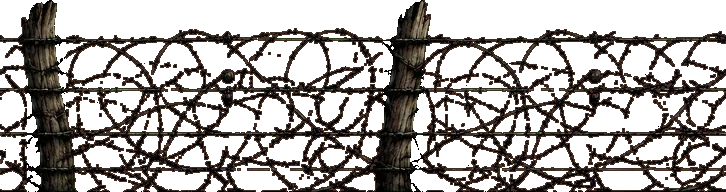
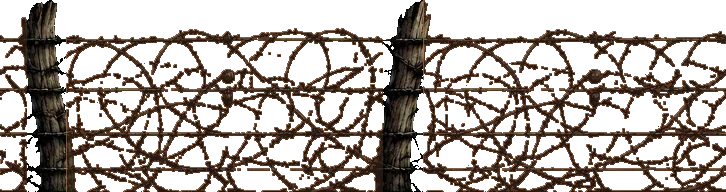
Gelände: Draht mit rostigem Glanz, von weit erkennbar

diff --git a/entwurf/probe/gelaende_bau.js b/entwurf/probe/gelaende_bau.js
@@ -306,7 +306,7 @@ async function bauen(cfg) {
       for (let k = 0; k < n; k++) {
         const ang = (q(k * 7 + 2) - 0.5) * 1.1, L = R * (0.32 + q(k * 7 + 3) * 0.3), cx = hx + (q(k * 7 + 4) - 0.5) * R * 0.9, cy = hy + (n === 1 ? (q(k * 7 + 5) - 0.5) * 0.5 : (k ? 0.3 : -0.32) + (q(k * 7 + 5) - 0.5) * 0.2) * R;
         wall(IM.draht, [cx - Math.cos(ang) * L, cy - Math.sin(ang) * L], [cx + Math.cos(ang) * L, cy + Math.sin(ang) * L], (0.5 + q(k * 7 + 6) * 0.15) * SH,
-          { u0: q(k * 7 + 8) * 5, shade: 0.3, shadeW: 0.12, skip: aufWeg });
+          { u0: q(k * 7 + 8) * 5, shade: 0.3, shadeW: 0.12, skip: aufWeg, filter: hS => hS < 45 * U ? 'brightness(1.4) contrast(1.1)' : '' });   // von weit etwas heller, damit man ihn erkennt
       }
       for (let k = 0; k < 1 + Math.floor(q(30) * 2.2); k++) {   // einzelne schiefe Pfähle, teils ohne Draht
         const x = hx + (q(k * 5 + 31) - 0.5) * R * 1.2, y = hy + (q(k * 5 + 32) - 0.5) * R * 1.1;

diff --git a/tools/gelaende_cut.py b/tools/gelaende_cut.py
@@ -199,6 +199,11 @@ def pfaehle_ausduennen(name, jede=2):
     q[neu, 3] = np.maximum(q[neu, 3], 220); q[neu, :3] = [70, 46, 32]
     # kein Schleier: halbdurchsichtige Reste zwischen den Drähten ganz weg, Draht und Pfähle voll deckend
     q[..., 3] = np.where(q[..., 3] < 140, 0, 255)
+    # rostiger Glanz: Drahtpixel mit freier Oberseite (Licht von oben links) bekommen eine helle Rostkante, alle Drähte etwas rostiger
+    d = q[..., 3] > 0; d[:, pf] = False
+    oben = d & ~np.roll(d, 1, axis=0) | d & ~np.roll(np.roll(d, 1, axis=0), 1, axis=1)
+    q[d, :3] = q[d, :3] * 0.7 + np.array([118, 74, 46]) * 0.3
+    q[oben, :3] = q[oben, :3] * 0.45 + np.array([190, 124, 76]) * 0.55
     q = np.clip(q, 0, 255).astype(np.uint8)
     print(f'  {len(grp)} Pfähle, {sum(1 for k in range(len(grp)) if k % jede)} entfernt → Breite {q.shape[1]} px')
     out = Image.fromarray(q, 'RGBA'); out.save(OUT / f'{name}.png'); out.save(PROBE / f'g_{name}.webp', quality=88, method=6)

diff --git a/STYLE.md b/STYLE.md
@@ -196,7 +196,7 @@ Für alle Bilder: reiner Magenta-Hintergrund (#FF00FF), PNG, Tuschkontur und Far
   - Gräben werden aus den Grabenfeldern zu Zügen verbunden; Züge am Kartenrand laufen bis zur Kante weiter (ohne Erdwall).
   - **Gräben im Zickzack** (Schulterwehren, seit 2026-11-16, Schalter `zickzack`): Der Zug wird alle 0,87 R neu gesetzt und abwechselnd um ±0,3 R seitlich versetzt. Das ist nur Darstellung innerhalb der Grabenfelder; welche Felder Graben sind, bestimmen weiter die Kartendaten (Regeln unverändert).
   - **Brustwehr zur Feindseite:** Bei Stücken, die in die Tiefe laufen, steht auf der Feindseite zusätzlich eine aufrechte Sandsack-Brustwehr (Kante vorn, 0,4 SH), 0,24 R weiter außen. Feindseite: Konkordat nach Osten, Aschenwacht nach Westen; Besitzer nach Aufstellungszone.
-  - **Draht:** gemalter Spiralstreifen (`draht`, jeder zweite Pfahl herausgeschnitten, Drähte um 1 px verdickt, voll deckend, ohne halbdurchsichtige Fläche). Je Drahtfeld 1–2 kurze Stücke (0,6–1,2 R), schräg (bis ±30°) und versetzt, dazu 1–3 einzelne schiefe Pfähle (`draht_pfahl_1–4`, bis ±20° geneigt). Nichts auf Straßen und Wegen. Wirr, nicht in Reihen.
+  - **Draht:** gemalter Spiralstreifen (`draht`, jeder zweite Pfahl herausgeschnitten, Drähte um 1 px verdickt, voll deckend, ohne halbdurchsichtige Fläche). Je Drahtfeld 1–2 kurze Stücke (0,6–1,2 R), schräg (bis ±30°) und versetzt, dazu 1–3 einzelne schiefe Pfähle (`draht_pfahl_1–4`, bis ±20° geneigt). Nichts auf Straßen und Wegen. Wirr, nicht in Reihen. Drähte mit rostigem Glanz (helle Rostkante oben), von weit etwas aufgehellt.
   - **Standringe:** nah dezent wie bisher. Herausgezoomt (Feldradius unter 130 px auf dem Schirm) werden sie kräftiger, heller, mit dunklem Saum und bis 10 % größer, damit man die Trupps findet.
   - Flaches Detail „Spuren“ (`flach_details_8`) nicht verwenden: wirkt als dunkles Rechteck.
   - **Panzersperren** (Feldart `sperre`): zwei Teile je Feld. Großer Trichter: zweite Variante auf Trichterfeldern.
